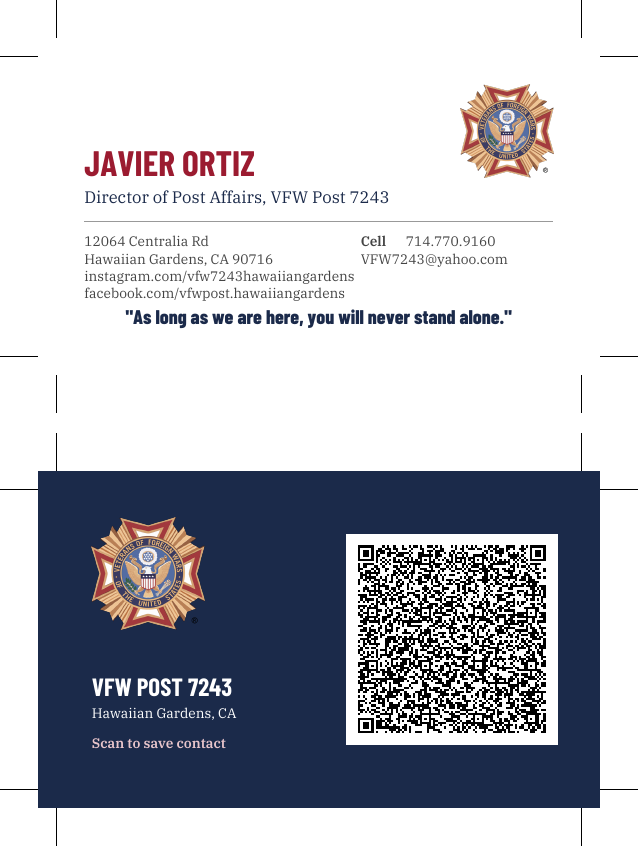
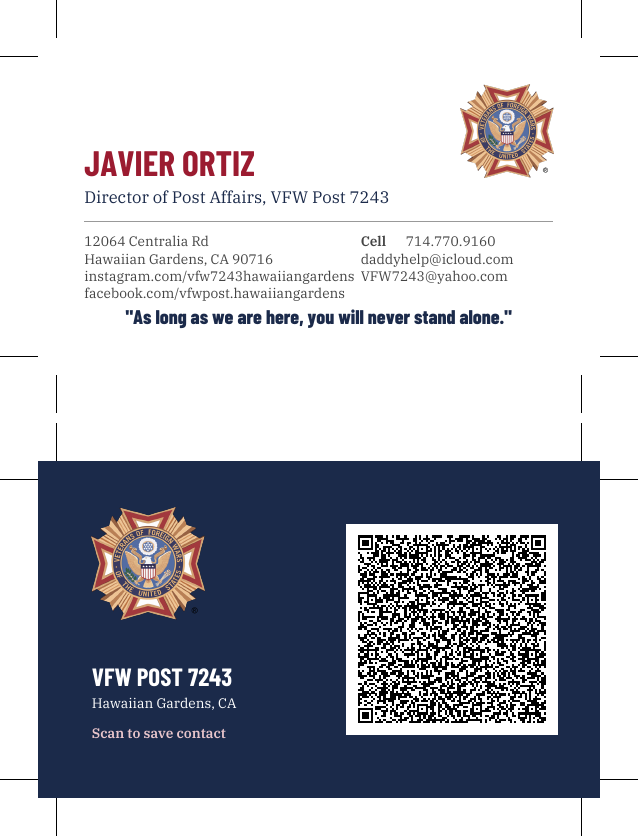
Javier card: add daddyhelp email

diff --git a/javier/index.html b/javier/index.html
@@ -5,6 +5,6 @@ a.b{display:block;margin:10px 0;padding:14px;border-radius:12px;background:#1B2A
 q{display:block;margin:18px 0;font-family:Arial,sans-serif;font-weight:900;font-size:19px;quotes:none}</style></head><body><img src="card.png" alt="Director of Post Affairs Javier Ortiz - VFW Post 7243" style="display:block;width:100%;max-width:520px;margin:12px auto;border-radius:12px;box-shadow:0 2px 10px rgba(0,0,0,.3)"><div class="c">
 <h1>JAVIER ORTIZ</h1><p>Director of Post Affairs, VFW Post 7243</p><p style="color:#555">12064 Centralia Rd, Hawaiian Gardens, CA 90716</p>
 <q>"As long as we are here, you will never stand alone."</q>
-<a class="b r" href="tel:+17147709160">Call 714.770.9160</a><a class="b" href="mailto:VFW7243@yahoo.com">Email the Post</a>
+<a class="b r" href="tel:+17147709160">Call 714.770.9160</a><a class="b" href="mailto:daddyhelp@icloud.com">Email Javier (daddyhelp@icloud.com)</a><a class="b" href="mailto:VFW7243@yahoo.com">Email the Post (VFW7243@yahoo.com)</a>
 <a class="b r" href="Javier_Ortiz.vcf" download="Javier_Ortiz.vcf">Save Contact</a>
 <a class="b" href="https://www.facebook.com/vfwpost.hawaiiangardens/">Facebook</a><a class="b" href="https://www.instagram.com/vfw7243hawaiiangardens">Instagram</a></div></body></html>
